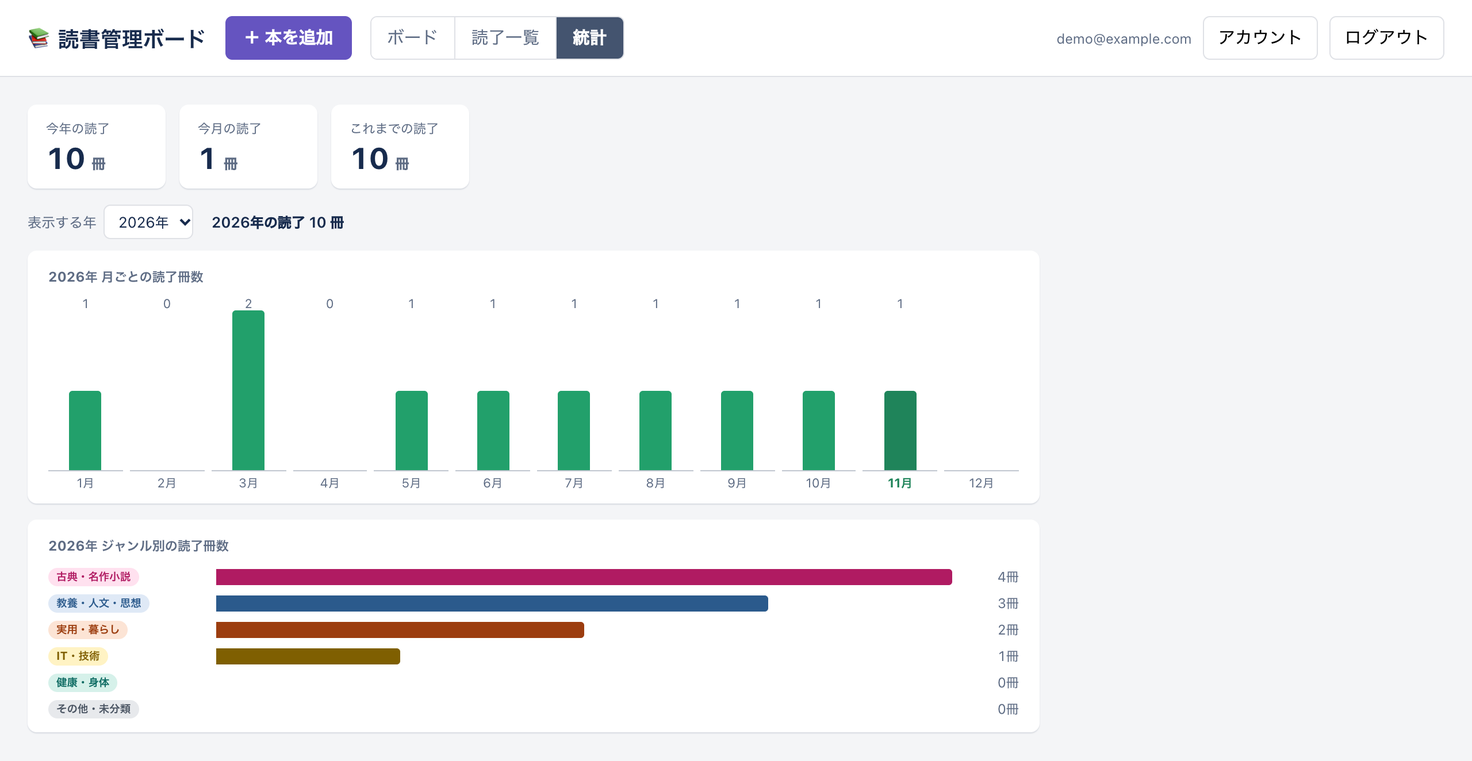
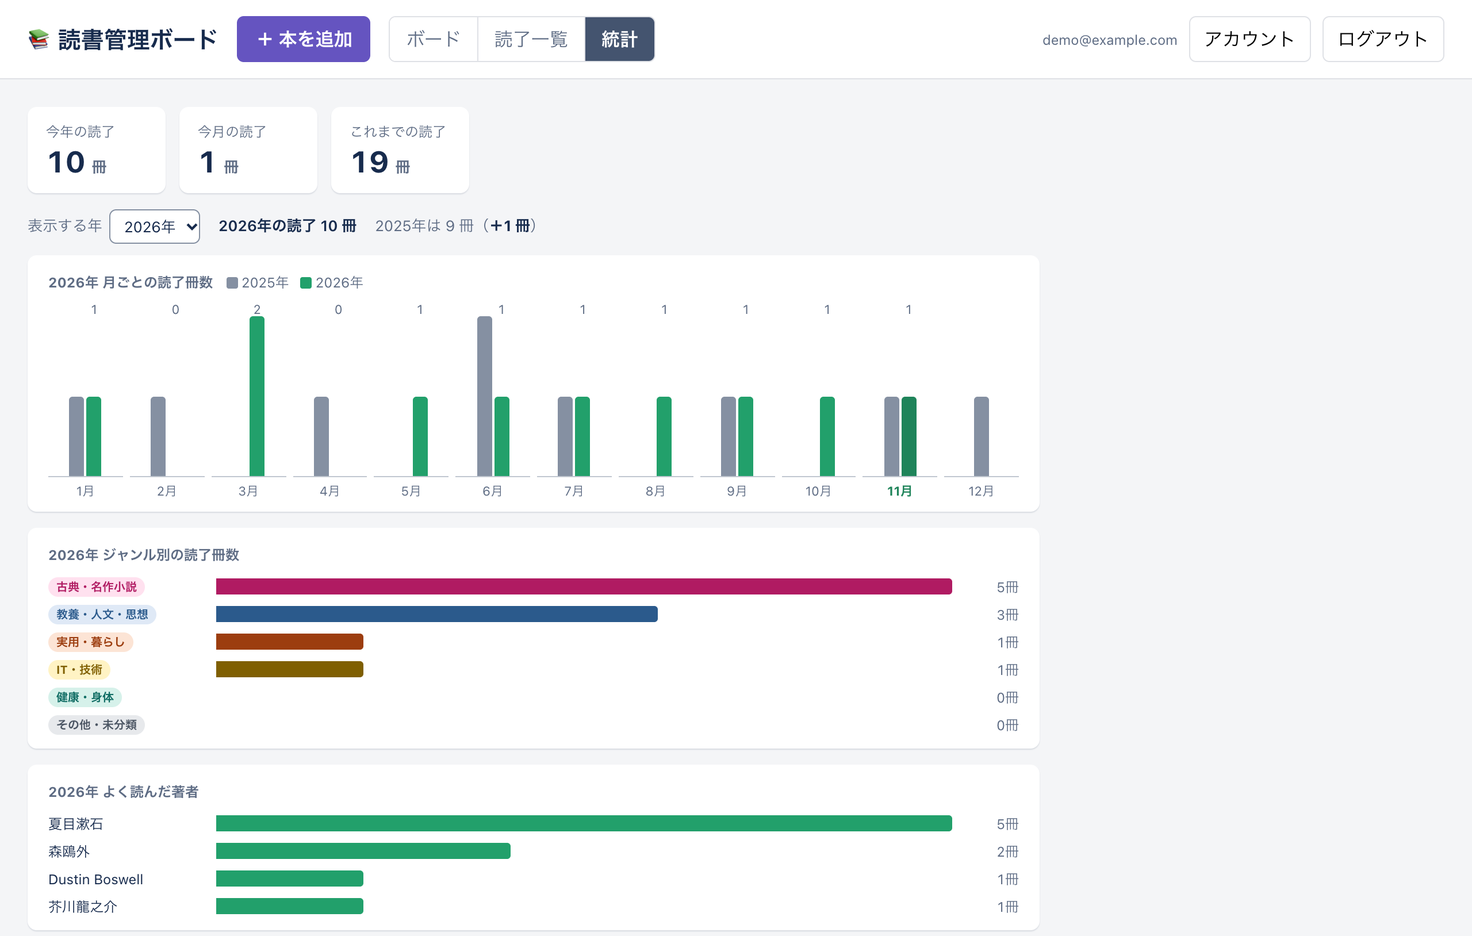
feat: 統計の月ごとのグラフで、前の年と比べられるようにする (#379)
- GET /api/books/stats に finished_in_previous_year・previous_year_by_month（12 個）を追加
- 月ごとのグラフ：前の年に読了があれば、左に前の年（灰色）、右に選んだ年（緑）の棒を並べ、凡例を出す。
  棒の上の数字は選んだ年だけで、緑の棒の真上に置く。読み上げ・title で「6月 7冊（2025年 5冊）」
- 「2026年の読了 43 冊」の横に「2025年は 35 冊（＋8 冊）」（減ったら −、同じなら「同じ」）
- 前の年に読了が無ければ今までどおりの見た目
- 見本 A / B / C から A を選び、ユーザーの希望で左右を入れ替えた
- docs・README（文章と統計画面のスクリーンショット）を直す

diff --git a/frontend/src/components/ReadMonthlyChart.vue b/frontend/src/components/ReadMonthlyChart.vue
@@ -2,14 +2,17 @@
 import { computed } from 'vue'
 
 // 月ごとの読了冊数の棒グラフ（1〜12 月）。グラフ用の道具は使わず、HTML と CSS の棒で描く。
-// 棒の高さはいちばん多い月を 100% にした割合。今年なら、まだ来ていない月は棒を出さず線だけ、今月は濃い緑
+// 棒の高さはいちばん多い月を 100% にした割合。今年なら、まだ来ていない月は棒を出さず線だけ、今月は濃い緑。
+// previousCounts を渡すと、月ごとに左に前の年（灰色）、右に選んだ年（緑）の棒を並べて比べる（#378。見本 A を左右入れ替え）
 const props = defineProps<{
   counts: number[] // 1〜12 月の冊数（12 個）
   year: number
   currentMonth?: number // 今年なら今月（1〜12）。過去の年は渡さない（12 か月すべて棒を出し、強調しない）
+  previousCounts?: number[] // 前の年の 1〜12 月の冊数。前の年に読了が無ければ渡さない（今までどおりの見た目）
 }>()
 
-const max = computed(() => Math.max(1, ...props.counts))
+const comparing = computed(() => props.previousCounts !== undefined)
+const max = computed(() => Math.max(1, ...props.counts, ...(props.previousCounts ?? [])))
 
 const months = computed(() =>
   props.counts.map((count, i) => {
@@ -22,25 +25,45 @@ const months = computed(() =>
       current: month === props.currentMonth,
       height: future ? 0 : Math.round((count / max.value) * 100),
       label: future ? `${month}月 まだ` : `${month}月 ${count}冊`,
+      ...previousOf(i),
     }
   }),
 )
+
+// 前の年の棒の高さと、読み上げ・マウスを乗せたときの文（「（2025年 5冊）」）
+function previousOf(i: number) {
+  if (!props.previousCounts) return { previousHeight: 0, previousLabel: '' }
+  const count = props.previousCounts[i] ?? 0
+  return {
+    previousHeight: Math.round((count / max.value) * 100),
+    previousLabel: `（${props.year - 1}年 ${count}冊）`,
+  }
+}
 </script>
 
 <template>
-  <section class="monthly-chart" aria-labelledby="monthly-chart-title">
-    <h3 id="monthly-chart-title" class="chart-title">{{ year }}年 月ごとの読了冊数</h3>
+  <section class="monthly-chart" :class="{ comparing }" aria-labelledby="monthly-chart-title">
+    <h3 id="monthly-chart-title" class="chart-title">
+      {{ year }}年 月ごとの読了冊数
+      <!-- 比べるときの色の説明（凡例）。左の棒から順に -->
+      <span v-if="comparing" class="legend" aria-hidden="true">
+        <span><i class="swatch previous" />{{ year - 1 }}年</span>
+        <span><i class="swatch" />{{ year }}年</span>
+      </span>
+    </h3>
     <ol class="months">
       <li
         v-for="m in months"
         :key="m.month"
         class="month"
         :class="{ future: m.future, current: m.current }"
-        :aria-label="m.label"
+        :aria-label="m.label + m.previousLabel"
+        :title="comparing ? m.label + m.previousLabel : undefined"
       >
         <span class="count" aria-hidden="true">{{ m.future ? '' : m.count }}</span>
         <span class="bar-area" aria-hidden="true">
-          <span class="bar" :style="{ height: `${m.height}%` }" />
+          <span v-if="comparing" class="bar previous" :style="{ height: `${m.previousHeight}%` }" />
+          <span class="bar now" :style="{ height: `${m.height}%` }" />
         </span>
         <span class="month-label" aria-hidden="true">{{ m.month }}月</span>
       </li>
@@ -56,6 +79,10 @@ const months = computed(() =>
   box-shadow: 0 1px 1px rgba(9, 30, 66, 0.12);
 }
 .chart-title {
+  display: flex;
+  flex-wrap: wrap;
+  align-items: center;
+  gap: 4px 12px;
   margin: 0 0 8px;
   font-size: 12px;
   font-weight: 700;
@@ -95,12 +122,43 @@ const months = computed(() =>
   background: var(--col-read);
   border-radius: 3px 3px 0 0;
 }
-.month.current .bar {
+.month.current .bar.now {
   background: var(--col-read-strong);
 }
 /* まだ来ていない月は棒を出さない（横軸の線だけ） */
-.month.future .bar {
+.month.future .bar.now {
   display: none;
+}
+/* 前の年と比べるとき：月ごとに 2 本（左に前の年の灰色、右に選んだ年の緑）。棒は細くする */
+.comparing .bar-area {
+  gap: 2px;
+}
+.comparing .bar {
+  max-width: 13px;
+}
+/* 棒の上の数字は選んだ年（右の緑の棒）の冊数なので、緑の棒の真上へずらす（左の灰色の棒の数字に見えないように） */
+.comparing .count {
+  transform: translateX(7.5px);
+}
+.bar.previous {
+  background: var(--star-empty); /* 灰色。白とのコントラスト 3.23:1（空の ☆ と同じ） */
+}
+.legend {
+  display: inline-flex;
+  gap: 10px;
+  font-weight: 400;
+}
+.swatch {
+  display: inline-block;
+  width: 10px;
+  height: 10px;
+  margin-right: 3px;
+  border-radius: 2px;
+  vertical-align: -1px;
+  background: var(--col-read);
+}
+.swatch.previous {
+  background: var(--star-empty);
 }
 /* 「10月」などを途中で折らない（幅 375px だと 1 か月分の列は 18px ほど） */
 .month-label {

diff --git a/frontend/src/components/__tests__/StatsView.spec.ts b/frontend/src/components/__tests__/StatsView.spec.ts
@@ -14,6 +14,8 @@ const stats: BookStats = {
   finished_in_year: 42,
   finished_this_month: 3,
   finished_by_month: [4, 6, 3, 5, 2, 7, 4, 3, 5, 3, 0, 0],
+  finished_in_previous_year: 0,
+  previous_year_by_month: [0, 0, 0, 0, 0, 0, 0, 0, 0, 0, 0, 0],
   finished_by_genre: {
     classic_novel: 8,
     liberal_arts: 12,
@@ -158,5 +160,44 @@ describe('ReadGenreChart（ジャンル別の読了冊数）', () => {
     const chart = mount(ReadAuthorChart, { props: { authors: [], year: 2026 } })
     expect(chart.find('.empty').text()).toBe('まだありません')
     expect(chart.find('.rows').exists()).toBe(false)
+  })
+
+  it('前の年に読了が無ければ、比べる棒・凡例・前の年の文を出さない（今までどおり）', () => {
+    const wrapper = mount(StatsView, { props: { stats, today } })
+    expect(wrapper.find('.previous-count').exists()).toBe(false)
+    expect(wrapper.find('.legend').exists()).toBe(false)
+    expect(wrapper.findAll('.bar.previous')).toHaveLength(0)
+  })
+
+  it('前の年に読了があれば、左に前の年・右に選んだ年の棒を並べ、合計と差を出す', () => {
+    const previous = [3, 2, 4, 3, 4, 5, 2, 3, 2, 3, 2, 2] // 35 冊
+    const wrapper = mount(StatsView, {
+      props: {
+        stats: { ...stats, finished_in_previous_year: 35, previous_year_by_month: previous },
+        today,
+      },
+    })
+    expect(wrapper.find('.previous-count').text()).toBe('2025年は 35 冊（＋7 冊）')
+    expect(wrapper.find('.legend').text()).toBe('2025年2026年')
+
+    const months = wrapper.findAll('.month')
+    // 左が前の年（灰色）、右が選んだ年（緑）。いちばん多い 7 冊（2026 年 6 月）を 100% にする
+    const june = months[5]!.findAll('.bar')
+    expect(june.map((b) => b.classes().includes('previous'))).toEqual([true, false])
+    expect(june.map((b) => b.attributes('style'))).toEqual(['height: 71%;', 'height: 100%;'])
+    expect(months[5]!.attributes('aria-label')).toBe('6月 7冊（2025年 5冊）')
+    // まだ来ていない 12 月は、前の年の棒だけ（選んだ年の棒は CSS で隠す）
+    expect(months[11]!.attributes('aria-label')).toBe('12月 まだ（2025年 2冊）')
+  })
+
+  it('差が 0 なら「同じ」、減ったら「−」', () => {
+    const same = mount(StatsView, {
+      props: { stats: { ...stats, finished_in_previous_year: 42 }, today },
+    })
+    expect(same.find('.previous-count').text()).toBe('2025年は 42 冊（同じ）')
+    const fewer = mount(StatsView, {
+      props: { stats: { ...stats, finished_in_previous_year: 50 }, today },
+    })
+    expect(fewer.find('.previous-count').text()).toBe('2025年は 50 冊（−8 冊）')
   })
 })

diff --git a/frontend/src/components/StatsView.vue b/frontend/src/components/StatsView.vue
@@ -23,6 +23,16 @@ const currentMonth = computed(() =>
   props.stats?.year === props.today.getFullYear() ? props.today.getMonth() + 1 : undefined,
 )
 
+// 前の年に読了があれば比べる（無ければ今までどおりの見た目。#378）
+const comparing = computed(() => (props.stats?.finished_in_previous_year ?? 0) > 0)
+// 「（＋8 冊）」「（−3 冊）」「（同じ）」
+const difference = computed(() => {
+  if (!props.stats) return ''
+  const diff = props.stats.finished_in_year - props.stats.finished_in_previous_year
+  if (diff === 0) return '同じ'
+  return `${diff > 0 ? '＋' : '−'}${Math.abs(diff)} 冊`
+})
+
 function onYearChange(event: Event) {
   emit('change-year', Number((event.target as HTMLSelectElement).value))
 }
@@ -58,11 +68,16 @@ function onYearChange(event: Event) {
           </select>
         </label>
         <span class="year-count">{{ stats.year }}年の読了 {{ stats.finished_in_year }} 冊</span>
+        <span v-if="comparing" class="previous-count">
+          {{ stats.year - 1 }}年は {{ stats.finished_in_previous_year }} 冊（<b>{{ difference }}</b
+          >）
+        </span>
       </div>
       <ReadMonthlyChart
         :counts="stats.finished_by_month"
         :year="stats.year"
         :current-month="currentMonth"
+        :previous-counts="comparing ? stats.previous_year_by_month : undefined"
       />
       <ReadGenreChart :counts="stats.finished_by_genre" :year="stats.year" />
       <ReadAuthorChart :authors="stats.top_authors" :year="stats.year" />
@@ -130,5 +145,12 @@ function onYearChange(event: Event) {
 .year-count {
   font-size: 13px;
   font-weight: 600;
+}
+.previous-count {
+  font-size: 13px;
+  color: var(--text-sub);
+}
+.previous-count b {
+  color: var(--text);
 }
 </style>

diff --git a/frontend/src/types/book.ts b/frontend/src/types/book.ts
@@ -103,6 +103,8 @@ export interface BookStats {
   year: number // 選んだ年（指定が無い・不正なら今年）
   finished_in_year: number // 選んだ年の冊数
   finished_by_month: number[] // 選んだ年の 1〜12 月（12 個）
+  finished_in_previous_year: number // 前の年（選んだ年の 1 つ前）の冊数
+  previous_year_by_month: number[] // 前の年の 1〜12 月（12 個）
   finished_by_genre: Record<BookGenre, number> // 選んだ年のジャンル別（6 ジャンルすべて）
   top_authors: { author: string; count: number }[] // 選んだ年によく読んだ著者（多い順に最大 5 人）
 }

diff --git a/frontend/src/components/__tests__/ReadList.spec.ts b/frontend/src/components/__tests__/ReadList.spec.ts
@@ -48,6 +48,8 @@ describe('ReadList（読了一覧）', () => {
           finished_in_year: 12,
           finished_this_month: 3,
           finished_by_month: [1, 1, 1, 1, 1, 1, 1, 1, 1, 3, 0, 0],
+          finished_in_previous_year: 0,
+          previous_year_by_month: [0, 0, 0, 0, 0, 0, 0, 0, 0, 0, 0, 0],
           finished_by_genre: {
             classic_novel: 12,
             liberal_arts: 0,

diff --git a/backend/app/controllers/api/books_controller.rb b/backend/app/controllers/api/books_controller.rb
@@ -65,6 +65,7 @@ module Api
     # - 今年・今月・これまで（finished_this_year / finished_this_month / finished_total）：year に関係なくいつも同じ
     # - 選んだ年（year。無い・不正なら今年）：その年の冊数・月ごと（1〜12 月の 12 個）・ジャンル別（6 ジャンル、0 冊も含む）・
     #   よく読んだ著者（top_authors：上位 TOP_AUTHORS 人。著者が空の本は数えない。#376）
+    # - 前の年（year の 1 つ前）：冊数（finished_in_previous_year）と月ごと（previous_year_by_month）。比べるため（#378）
     # - years：選べる年（読了した本がある年＋今年、新しい順）
     def stats
       today = Date.current
@@ -72,8 +73,7 @@ module Api
       years = (finished_on.values.map(&:year) + [ today.year ]).uniq.sort.reverse
       year = stats_year(years, today.year)
       in_year = finished_on.select { |_book_id, date| date.year == year }
-      by_month = Array.new(12, 0)
-      in_year.each_value { |date| by_month[date.month - 1] += 1 }
+      in_previous_year = finished_on.values.select { |date| date.year == year - 1 }
       this_year = finished_on.values.select { |date| date.year == today.year }
       render json: {
         finished_total: current_user.books.read.count,
@@ -82,7 +82,9 @@ module Api
         years: years,
         year: year,
         finished_in_year: in_year.size,
-        finished_by_month: by_month,
+        finished_by_month: count_by_month(in_year.values),
+        finished_in_previous_year: in_previous_year.size,
+        previous_year_by_month: count_by_month(in_previous_year),
         finished_by_genre: Book.genres.keys.index_with(0)
           .merge(current_user.books.where(id: in_year.keys).group(:genre).count),
         top_authors: top_authors(in_year.keys)
@@ -241,6 +243,11 @@ module Api
 
     def dry_run?
       ActiveModel::Type::Boolean.new.cast(params[:dry_run]) == true
+    end
+
+    # 統計：読了日を 1〜12 月の 12 個の冊数にする
+    def count_by_month(dates)
+      dates.each_with_object(Array.new(12, 0)) { |date, counts| counts[date.month - 1] += 1 }
     end
 
     # 統計：よく読んだ著者。冊数の多い順、同じ冊数なら著者名の順に上位 TOP_AUTHORS 人

diff --git a/backend/test/controllers/api/books_controller_test.rb b/backend/test/controllers/api/books_controller_test.rb
@@ -583,6 +583,29 @@ module Api
       end
     end
 
+    test "stats は前の年（選んだ年の 1 つ前）の冊数と月ごとを返す" do
+      travel_to Date.new(2026, 6, 15) do
+        create_finished_book(Date.new(2026, 2, 1))
+        create_finished_book(Date.new(2025, 2, 10))
+        create_finished_book(Date.new(2025, 2, 20))
+        create_finished_book(Date.new(2025, 12, 31))
+        create_finished_book(Date.new(2024, 7, 1))
+        create_finished_book(Date.new(2025, 3, 1), user: users(:other)) # 他人の本
+
+        get stats_api_books_url
+        body = JSON.parse(response.body)
+        assert_equal 3, body["finished_in_previous_year"]
+        assert_equal [ 0, 2, 0, 0, 0, 0, 0, 0, 0, 0, 0, 1 ], body["previous_year_by_month"]
+        assert_equal [ 0, 1, 0, 0, 0, 0, 0, 0, 0, 0, 0, 0 ], body["finished_by_month"]
+
+        # 2025 年を選ぶと、比べる年は 2024 年
+        get stats_api_books_url, params: { year: 2025 }
+        body = JSON.parse(response.body)
+        assert_equal 1, body["finished_in_previous_year"]
+        assert_equal 1, body["previous_year_by_month"][6]
+      end
+    end
+
     test "stats の今年・今月は日本時間で決める（UTC では前の年の大みそかでも、日本時間の元日なら今年）" do
       travel_to Time.utc(2025, 12, 31, 20, 0) do # 日本時間 2026-01-01 05:00
         @owner.books.create!(title: "元日の朝に読了", status: :read)

diff --git a/docs/screen-design.md b/docs/screen-design.md
@@ -174,6 +174,7 @@
 - **冊数**：「今年の読了」「今月の読了」「これまでの読了」を白いカードに大きな数字で並べる。今年・今月は読了日（最初に読了になった日。日本時間）で数え、これまで＝今「読了」の本すべて。
 - **年の切り替え**：冊数のカードの下に「表示する年 [2026年 ▼]」（選べるのは読了した本がある年と今年、新しい順。最初は今年）と「2026年の読了 N 冊」を置く。年を変えると、下の 2 つのグラフとその年の冊数を取り直す（冊数のカード＝今年・今月・これまでは変わらない）。本の保存・削除のあとも選んだ年のまま取り直す。
 - **月ごとのグラフ**：選んだ年の 1〜12 月の読了冊数を縦の棒で並べる（いちばん多い月を 100% の高さ）。棒の上に冊数、下に「◯月」。棒は読了カラムと同じ緑、今月は濃い緑で月の文字も太字。今年なら、まだ来ていない月は棒も冊数も出さず横軸の線だけ。グラフ用のライブラリは使わず HTML と CSS で描く。読み上げ用に各月へ「6月 7冊」（来ていない月は「11月 まだ」）を付ける。過去の年は 12 か月すべて棒を出し、今月の強調はしない。
+- **前の年と比べる**：前の年（選んだ年の 1 つ前）に読了した本があれば、月ごとのグラフで月ごとに**左に前の年（灰色 `#8590a2`）、右に選んだ年（緑）**の棒を並べ（棒は細くなる）、見出しの横に色の説明（「■ 2025年 ■ 2026年」）、「2026年の読了 43 冊」の横に「2025年は 35 冊（＋8 冊）」（減ったら「−」、同じなら「同じ」）を出す。棒の上の数字は選んだ年だけ。前の年の冊数はマウスを乗せたとき（title）と読み上げ（「6月 7冊（2025年 5冊）」）で分かる。まだ来ていない月は前の年の棒だけ。前の年に読了が無ければ、今までどおりの見た目（2026-11-03、#378。見本 A / B / C から A を選び、左右を入れ替えた）
 - **ジャンル別のグラフ**：月ごとのグラフの下に、選んだ年のジャンル別の読了冊数を横棒で並べる（「ジャンル名のバッジ｜棒｜N冊」）。冊数の多い順、同じ冊数ならいつものジャンルの並び順。0 冊のジャンルも出す（棒なし）。棒の長さはいちばん多いジャンルを 100%、色はジャンルバッジの文字色（S2 と同じ `.genre-*`）。読み上げ用に各行へ「IT・技術 12冊」を付ける。
 - **よく読んだ著者**：ジャンル別のグラフの下に、選んだ年によく読んだ著者の上位 5 人を横棒で並べる（「著者名｜棒｜N冊」。ジャンル別と同じ幅で棒の始まりをそろえる。長い名前は … で切り、マウスを乗せると全体が出る）。冊数の多い順、同じ冊数なら著者名の順。棒の長さはいちばん多い人を 100%、色は月ごとのグラフと同じ読了の緑。著者のある読了本が無い年は「まだありません」。読み上げ用に各行へ「夏目漱石 3冊」を付ける（2026-11-03、#376）。
 - **取り直し**：開いたとき・本の保存/削除のあと。取得前は「読み込み中…」、失敗したら「統計を取得できませんでした。…」。

diff --git a/docs/functional-requirements.md b/docs/functional-requirements.md
@@ -135,7 +135,7 @@ UC9 招待して登録してもらう:
 | PATCH | `/api/books/:id` | 更新（状態・評価・メモ・種別・タグなど） | 200 / 400 / 404 / 422 |
 | DELETE | `/api/books/:id` | 削除（その本だけに付いていたタグの「隠した候補」も消す） | 204 / 404 |
 | PATCH | `/api/books/reorder` | カラム内の並び順を保存（`{ ids: [...] }` の順に position を振り、同じ状態の残りは既存順で後ろに詰める） | 204 |
-| GET | `/api/books/stats` | 読了冊数。今「読了」の自分の本を数える。`?year=YYYY` で年を選ぶ（無い・不正・読了の無い年なら今年）。返り値は `finished_total`（これまで）/ `finished_this_year` / `finished_this_month`（この 3 つは year に関係なく同じ）/ `years`（選べる年：読了した本がある年＋今年、新しい順）/ `year`（選んだ年）/ `finished_in_year` / `finished_by_month`（選んだ年の 1〜12 月の 12 個）/ `finished_by_genre`（選んだ年のジャンル別。6 ジャンルすべてを enum のキーで）/ `top_authors`（選んだ年によく読んだ著者 `[{ author, count }]`。冊数の多い順、同じなら著者名の文字コード順に上位 5 人。著者が空の本は数えず、書き方が違えば別の人）。日付は読了日（最初に読了になった日）で数える（絞り込みには連動しない） | 200 |
+| GET | `/api/books/stats` | 読了冊数。今「読了」の自分の本を数える。`?year=YYYY` で年を選ぶ（無い・不正・読了の無い年なら今年）。返り値は `finished_total`（これまで）/ `finished_this_year` / `finished_this_month`（この 3 つは year に関係なく同じ）/ `years`（選べる年：読了した本がある年＋今年、新しい順）/ `year`（選んだ年）/ `finished_in_year` / `finished_by_month`（選んだ年の 1〜12 月の 12 個）/ `finished_by_genre`（選んだ年のジャンル別。6 ジャンルすべてを enum のキーで）/ `finished_in_previous_year`・`previous_year_by_month`（前の年＝選んだ年の 1 つ前の冊数と 1〜12 月の 12 個。比べるため）/ `top_authors`（選んだ年によく読んだ著者 `[{ author, count }]`。冊数の多い順、同じなら著者名の文字コード順に上位 5 人。著者が空の本は数えず、書き方が違えば別の人）。日付は読了日（最初に読了になった日）で数える（絞り込みには連動しない） | 200 |
 | GET | `/api/books/export` | 自分の本をすべて CSV で返す（`text/csv`・添付ファイル `reading-board-books-YYYYMMDD.csv`。日付は日本時間の今日。登録順）。列は F21 | 200 / 401 |
 | POST | `/api/books/import` | CSV の本をまとめて登録（F22）。`{ csv: "CSV の文字", dry_run: true\|false }`。dry_run は登録せず `{ to_create, skipped: [{ line, title }] }`、本番は 1 つのトランザクションで登録して `{ created, skipped }` | 200 / 422（間違った行。`errors` に「3 行目：…」） / 401 |
 | GET | `/api/books/missing_covers` | ISBN があって表紙が無い自分の本の冊数 `{ count }`（F19） | 200 / 401 |

diff --git a/README.md b/README.md
@@ -9,9 +9,9 @@ RaiseTech の学習成果物として、**Ruby on Rails（API）+ Vue 3 + MySQL*
 
 ![ボード画面：読みたい・読書中・読了の 3 列に本のカードが並ぶ](docs/images/board.png)
 
-統計：今年・今月・これまでの読了冊数と、月ごと・ジャンル別・よく読んだ著者のグラフ。
+統計：今年・今月・これまでの読了冊数と、月ごと（前の年と比べる）・ジャンル別・よく読んだ著者のグラフ。
 
-![統計画面：読了冊数と、月ごとの棒グラフ、ジャンル別の横棒グラフ](docs/images/stats.png)
+![統計画面：読了冊数と、前の年と並べた月ごとの棒グラフ、ジャンル別とよく読んだ著者の横棒グラフ](docs/images/stats.png)
 
 （撮影用のアカウントと見本の本で撮影。表紙の画像は写していない）
 
@@ -22,7 +22,7 @@ RaiseTech の学習成果物として、**Ruby on Rails（API）+ Vue 3 + MySQL*
 - 評価（★1〜5）・感想メモ・主ジャンル・形態・タグ（候補の提案つき。アカウント画面で名前の変更・まとめる・外す）
 - 各状態に入った日（日本時間）と読了までの日数の記録、読了カラムの並び替え、キーワード（タイトル・著者・メモ）・ジャンル・タグ・評価での絞り込み
 - カラムごとのページング（20 件＋「もっと見る」）、読了本を 1 冊 1 行で並べる読了一覧（`/read`）
-- 統計（`/stats`）：今年・今月・これまでの読了冊数、月ごと・ジャンル別・よく読んだ著者のグラフ（年を切り替えられる）
+- 統計（`/stats`）：今年・今月・これまでの読了冊数、月ごと（前の年と比べる）・ジャンル別・よく読んだ著者のグラフ（年を切り替えられる）
 - CSV 書き出し・読み込み（アカウント画面）：自分の本を CSV で保存し、CSV からまとめて登録
 - 表紙のまとめて取得（アカウント画面）：ISBN があって表紙が無い本に、Google Books の表紙をまとめて付ける
 - ログイン、招待制の新規登録、パスワード変更・管理者発行の再設定リンク・アカウント削除
